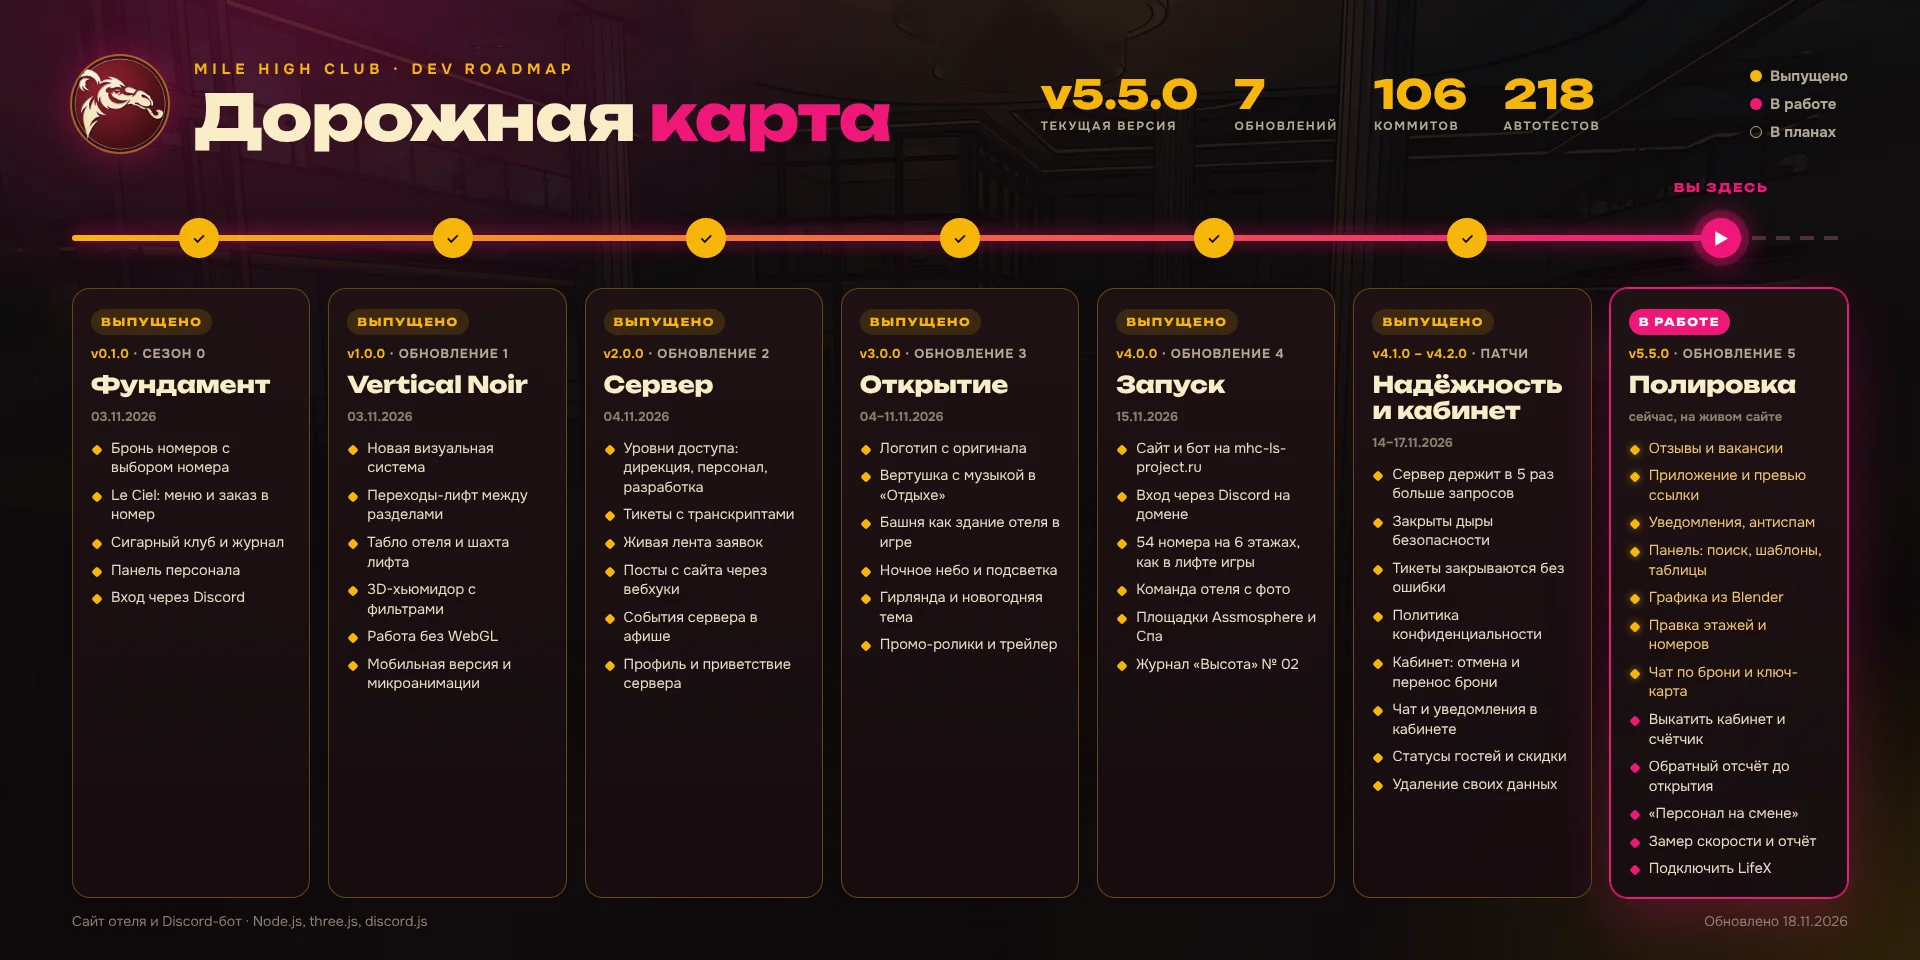
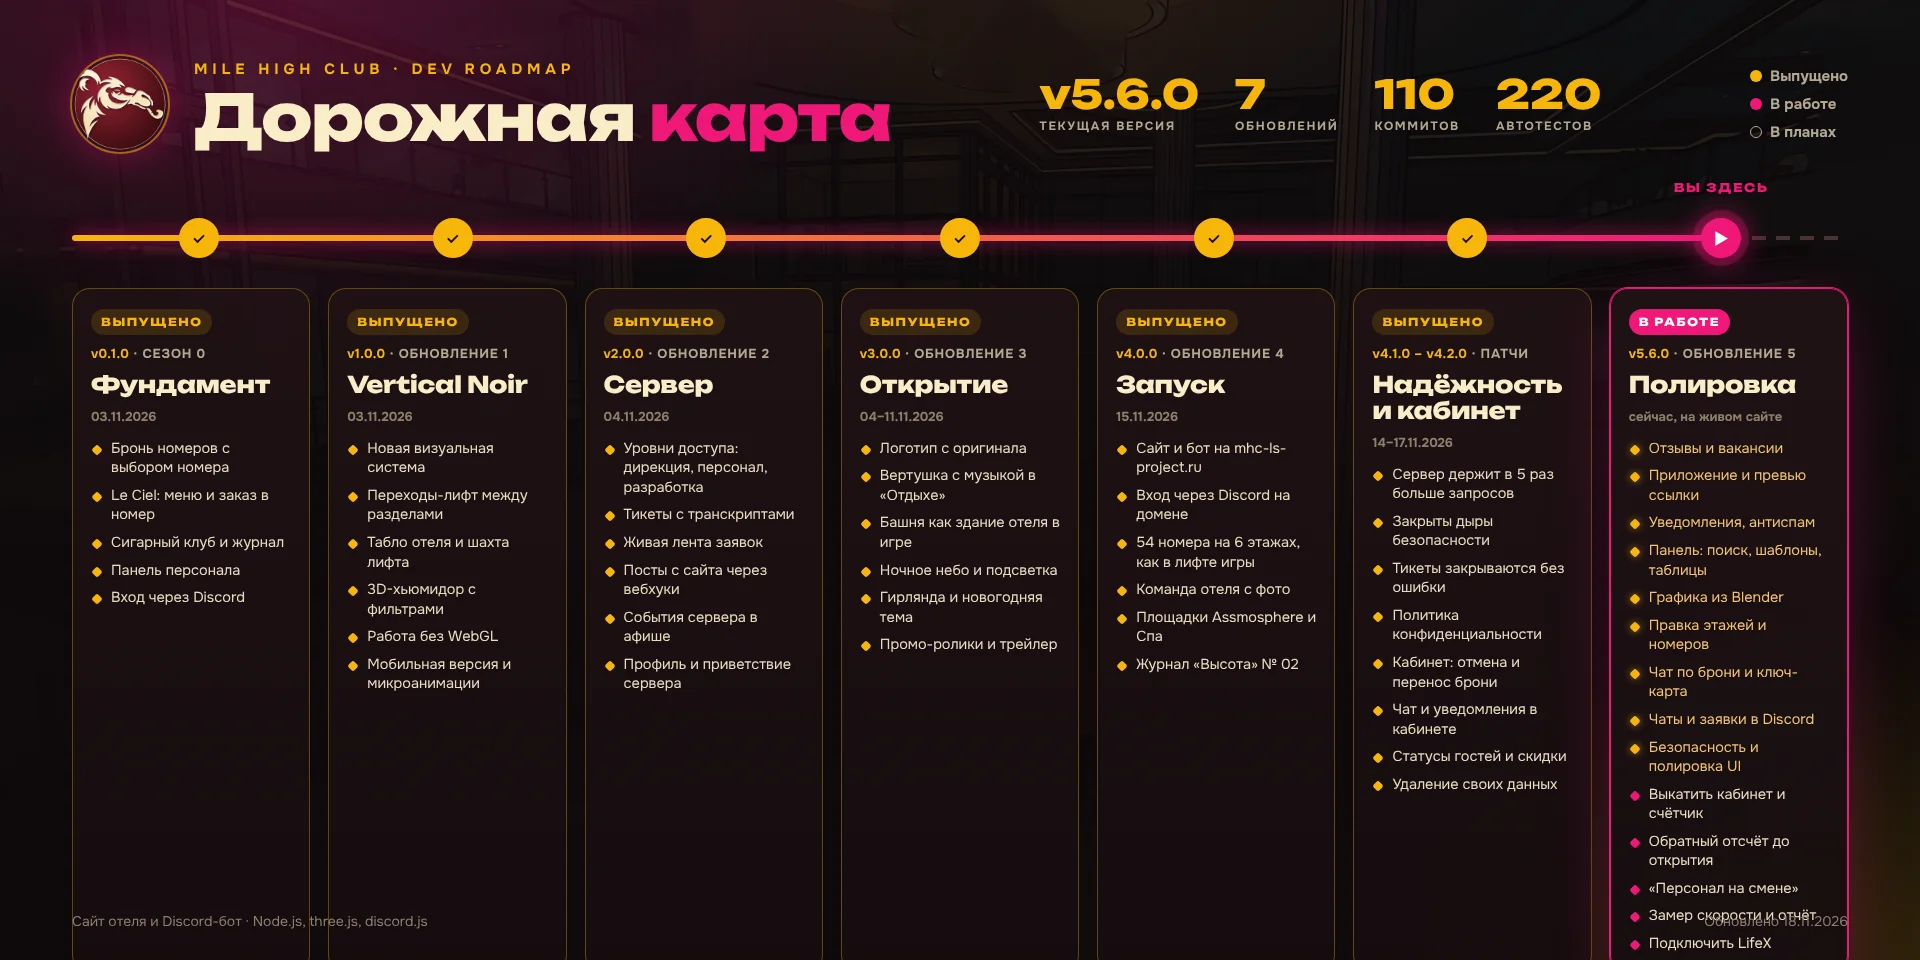
v5.6.0: безопасность, мост чатов и заявок в Discord, доработка дизайна — версия, дорожная карта, CHANGELOG

diff --git a/docs/roadmap/roadmap.html b/docs/roadmap/roadmap.html
@@ -58,7 +58,7 @@ li.ok::before{background:var(--gold)}
 <div class="bgimg"></div><div class="glow"></div>
 <div class="wrap">
 <header><img src="../../public/img/emblem.webp" alt=""><div><div class="eb">Mile High Club · dev roadmap</div><h1>Дорожная <span>карта</span></h1></div>
-<div class="stats"><div><span class="big" data-current>v5.5.0</span><small>текущая версия</small></div><div><span class="big">7</span><small>обновлений</small></div><div><span class="big">106</span><small>коммитов</small></div><div><span class="big">218</span><small>автотестов</small></div></div>
+<div class="stats"><div><span class="big" data-current>v5.6.0</span><small>текущая версия</small></div><div><span class="big">7</span><small>обновлений</small></div><div><span class="big">110</span><small>коммитов</small></div><div><span class="big">220</span><small>автотестов</small></div></div>
 <div class="legend"><span><i style="background:var(--gold)"></i>Выпущено</span><span><i style="background:var(--pink)"></i>В работе</span><span><i style="border:1.5px solid var(--mut)"></i>В планах</span></div></header>
 
 <div class="track"><div class="rail"></div><div class="prog" style="--p:92.86"></div>
@@ -83,7 +83,7 @@ li.ok::before{background:var(--gold)}
 <div class="c done"><span class="tag">ВЫПУЩЕНО</span><div class="ver"><b>v4.1.0 – v4.2.0</b> · ПАТЧИ</div><h2>Надёжность и кабинет</h2><div class="date">14–17.11.2026</div><ul>
 <li>Сервер держит в 5 раз больше запросов</li><li>Закрыты дыры безопасности</li><li>Тикеты закрываются без ошибки</li><li>Политика конфиденциальности</li><li>Кабинет: отмена и перенос брони</li><li>Чат и уведомления в кабинете</li><li>Статусы гостей и скидки</li><li>Удаление своих данных</li></ul></div>
 
-<div class="c now"><span class="tag">В РАБОТЕ</span><div class="ver"><b data-current>v5.5.0</b> · ОБНОВЛЕНИЕ 5</div><h2>Полировка</h2><div class="date">сейчас, на живом сайте</div><ul>
-<li class="ok">Отзывы и вакансии</li><li class="ok">Приложение и превью ссылки</li><li class="ok">Уведомления, антиспам</li><li class="ok">Панель: поиск, шаблоны, таблицы</li><li class="ok">Графика из Blender</li><li class="ok">Правка этажей и номеров</li><li class="ok">Чат по брони и ключ-карта</li><li>Выкатить кабинет и счётчик</li><li>Обратный отсчёт до открытия</li><li>«Персонал на смене»</li><li>Замер скорости и отчёт</li><li>Подключить LifeX</li></ul></div>
+<div class="c now"><span class="tag">В РАБОТЕ</span><div class="ver"><b data-current>v5.6.0</b> · ОБНОВЛЕНИЕ 5</div><h2>Полировка</h2><div class="date">сейчас, на живом сайте</div><ul>
+<li class="ok">Отзывы и вакансии</li><li class="ok">Приложение и превью ссылки</li><li class="ok">Уведомления, антиспам</li><li class="ok">Панель: поиск, шаблоны, таблицы</li><li class="ok">Графика из Blender</li><li class="ok">Правка этажей и номеров</li><li class="ok">Чат по брони и ключ-карта</li><li class="ok">Чаты и заявки в Discord</li><li class="ok">Безопасность и полировка UI</li><li>Выкатить кабинет и счётчик</li><li>Обратный отсчёт до открытия</li><li>«Персонал на смене»</li><li>Замер скорости и отчёт</li><li>Подключить LifeX</li></ul></div>
 </div></div>
 <div class="foot"><span>Сайт отеля и Discord-бот · Node.js, three.js, discord.js</span><span>Обновлено 18.11.2026</span></div>

diff --git a/README.md b/README.md
@@ -6,7 +6,7 @@
 
 **Сайт отеля над Лос-Сантосом и Discord-бот для GTA RP**
 
-Текущая версия: **<!--ver-->v5.5.0<!--/ver-->**
+Текущая версия: **<!--ver-->v5.6.0<!--/ver-->**
 
 Бронь номеров на 3D-башне · Le Ciel и заказ в номер · сигарный клуб · журнал · обращения с тикетами в Discord · панель персонала
 
@@ -18,7 +18,11 @@
 
 ## Последнее обновление
 
-**v5.5.0 · Обновление 5 «Полировка» · 18.11.2026**
+**v5.6.0 · Обновление 5 «Полировка» · 18.11.2026**
+
+- **Безопасность:** ревью по методологии BugHunter. Скачивание аватара LifeX теперь только с публичных хостов — закрыты внутренние адреса и облачные метаданные (SSRF).
+- **Чаты и заявки в Discord:** переписка по брони и обращения в режиме «чат на сайте» дублируются в канал Discord. Персонал отвечает прямо из канала — ответ приходит гостю на сайт и в личные сообщения. Удобно тем, кто не пользуется сайтом.
+- **Дизайн:** заметный фокус-ринг на любом фоне, живые строки меню (золотой акцент при наведении), мягкое поднятие карточек.
 
 - **Чат по брони:** гость пишет отелю прямо из карточки брони в кабинете, управляющий отвечает из панели («Брони» → «Чат с гостем», с шаблонами). Ответ приходит на сайт без перезагрузки, в колокольчик и в личные сообщения Discord; сообщение гостя — в ленту персонала.
 - **Путь гостя:** после брони — шаги «что дальше» и кнопка «Написать отелю»; пока ждём подтверждения — понятное пояснение; после подтверждения — золотая ключ-карта с номером и подсказкой про лифт; после заселения — «Заказать в номер», «Ресепшен», «Отдых». Смены статуса записываются в переписку и подсвечивают карточку.

diff --git a/CHANGELOG.md b/CHANGELOG.md
@@ -7,6 +7,7 @@
 Номер версии хранится в `package.json` и виден на сайте (подвал) и в панели персонала. Новая версия — `npm run release -- patch|minor|major "Название"`.
 
 <!--versions-->
+- **v5.6.0** · 18.11.2026 · Безопасность (SSRF), мост чатов и заявок в Discord, доработка дизайна
 - **v5.5.0** · 18.11.2026 · Бронь: чат гостя с отелем, ключ-карта, путь гостя по брони
 - **v5.4.0** · 17.11.2026 · Правка номеров и этажей с доски, редактор этажа целиком, номер версии на сайте
 - **v5.3.0** · 17.11.2026 · Графика из Blender: башня, город, хьюмидор, сигары, дым
